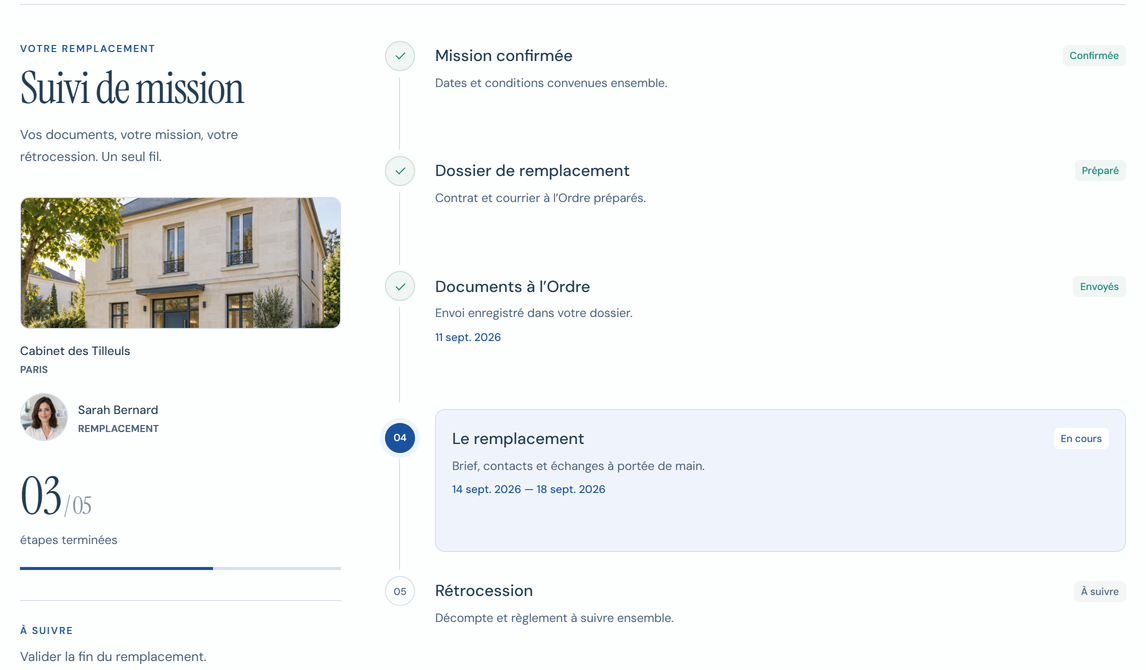
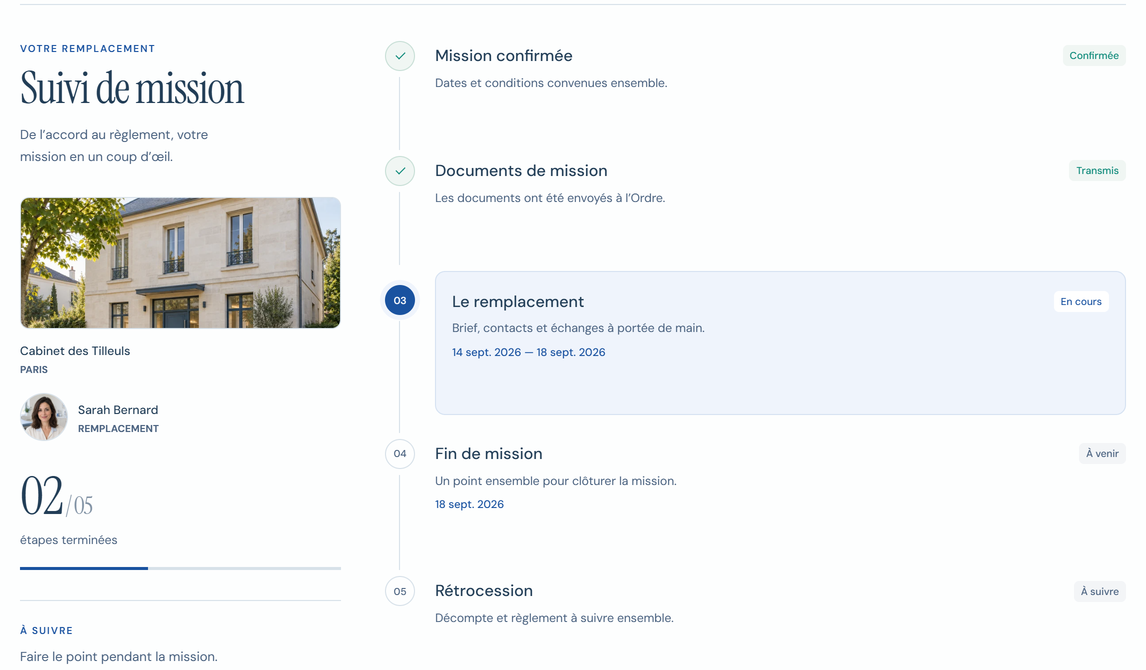
Refocus mission tracking on the replacement journey

diff --git a/medilink-frontend-v2-polished/lib/mission-progress.ts b/medilink-frontend-v2-polished/lib/mission-progress.ts
@@ -49,9 +49,6 @@ export function missionProgress(
   const sent = prepared && [contract!, letter!].every(document =>
     sentDeliveries.some(delivery => delivery.documentIds.includes(document.id)));
   const latestAttempt = [...orderDeliveries].sort((a, b) => b.createdAt.localeCompare(a.createdAt))[0];
-  const latestSent = [...sentDeliveries].filter(delivery =>
-    delivery.documentIds.some(id => id === contract?.id || id === letter?.id))
-    .sort((a, b) => (b.sentAt || b.createdAt).localeCompare(a.sentAt || a.createdAt))[0];
   const unknownStatus = dossierLoading ? 'Chargement…' : 'À consulter';
   const sending = !sent && latestAttempt?.status === 'SENDING';
   const failed = !sent && latestAttempt?.status === 'FAILED';
@@ -64,33 +61,37 @@ export function missionProgress(
       nextAction: 'Confirmer les conditions ensemble.', done: confirmed, active: false,
     },
     {
-      key: 'documents', label: 'Dossier de remplacement',
-      helper: prepared ? 'Contrat et courrier à l’Ordre préparés.' : 'Réunissez le contrat et le courrier à l’Ordre.',
-      status: !dossier ? unknownStatus : prepared ? 'Préparé' : 'À préparer',
-      nextAction: dossier ? 'Préparer le dossier du remplacement.' : 'Consulter le dossier du remplacement.',
-      done: prepared, active: false,
-    },
-    {
-      key: 'order', label: 'Documents à l’Ordre',
-      helper: sent ? 'Envoi enregistré dans votre dossier.'
+      key: 'documents', label: 'Documents de mission',
+      helper: !dossier ? 'Retrouvez les pièces dans le dossier partagé.'
+        : sent ? 'Les documents ont été envoyés à l’Ordre.'
         : sending ? 'L’envoi des documents est en cours.'
         : failed ? 'Relancez l’envoi depuis votre dossier.'
         : sentDeliveries.length ? 'Certaines pièces actuelles restent à transmettre.'
-        : 'Transmettez les pièces au Conseil départemental.',
-      status: !dossier ? unknownStatus : sent ? 'Envoyés' : sending ? 'En cours' : failed ? 'À relancer' : sentDeliveries.length ? 'À compléter' : 'À transmettre',
-      dateLabel: sent && latestSent ? formatDate(latestSent.sentAt || latestSent.createdAt) : undefined,
-      nextAction: sent ? 'Consulter l’historique des envois.' : sending ? 'Suivre l’envoi dans le dossier.' : 'Transmettre les documents à l’Ordre.',
+        : prepared ? 'Le dossier est prêt à être transmis à l’Ordre.'
+        : 'Préparez le dossier du remplacement.',
+      status: !dossier ? unknownStatus : sent ? 'Transmis' : sending ? 'En cours' : failed ? 'À relancer' : sentDeliveries.length ? 'À compléter' : prepared ? 'À transmettre' : 'À préparer',
+      nextAction: !dossier ? 'Consulter le dossier du remplacement.'
+        : sending ? 'Suivre l’envoi dans le dossier.'
+        : prepared ? 'Transmettre les documents à l’Ordre.' : 'Préparer le dossier du remplacement.',
       done: sent, active: false,
     },
     {
       key: 'replacement', label: 'Le remplacement',
-      helper: completed ? 'La fin de mission a été validée.'
-        : ended ? 'La période est terminée, la fin reste à valider.'
+      helper: completed ? 'Le remplacement est terminé.'
+        : ended ? 'La période prévue est terminée.'
         : started ? 'Brief, contacts et échanges à portée de main.'
         : 'Retrouvez les informations avant le premier jour.',
-      status: completed ? 'Validé' : ended ? 'À valider' : started ? 'En cours' : 'À venir',
+      status: completed ? 'Terminé' : ended ? 'Période écoulée' : started ? 'En cours' : 'À venir',
       dateLabel: startDate && endDate ? `${formatDate(startDate)} — ${formatDate(endDate)}` : 'Dates à confirmer',
-      nextAction: started || ended ? 'Valider la fin du remplacement.' : 'Préparer le premier jour.',
+      nextAction: started ? 'Faire le point pendant la mission.' : 'Préparer le premier jour.',
+      done: ended || completed, active: false,
+    },
+    {
+      key: 'completed', label: 'Fin de mission',
+      helper: completed ? 'La fin de mission a été validée.' : 'Un point ensemble pour clôturer la mission.',
+      status: completed ? 'Validée' : ended ? 'À valider' : 'À venir',
+      dateLabel: endDate ? formatDate(endDate) : 'Date à confirmer',
+      nextAction: 'Valider la fin du remplacement.',
       done: completed, active: false,
     },
     {

diff --git a/medilink-frontend-v2-polished/content/landing-content.ts b/medilink-frontend-v2-polished/content/landing-content.ts
@@ -125,7 +125,7 @@ export const landingContent = {
           </header>
           <ol class="ml-continuity-benefits">
             <li><span aria-hidden="true">01</span><div><h3>Les moments clés</h3><p>De la mission confirmée à la rétrocession, gardez le fil.</p></div></li>
-            <li><span aria-hidden="true">02</span><div><h3>Le dossier et ses envois</h3><p>Retrouvez les documents préparés et leur transmission à l’Ordre.</p></div></li>
+            <li><span aria-hidden="true">02</span><div><h3>La prochaine étape</h3><p>Repérez ce qui est en cours et ce qui reste à finaliser.</p></div></li>
             <li><span aria-hidden="true">03</span><div><h3>Les informations utiles</h3><p>Consultez le brief, les contacts et les conditions convenues.</p></div></li>
           </ol>
           <p class="ml-continuity-connection"><svg xmlns="http://www.w3.org/2000/svg" width="20" height="20" viewBox="0 0 24 24" fill="none" stroke="currentColor" stroke-width="1.5" stroke-linecap="round" stroke-linejoin="round" aria-hidden="true"><path d="M20 7h-9m6-3 3 3-3 3M4 17h9m-6-3-3 3 3 3"/></svg><span>Pendant le remplacement, savoir où en est la mission.</span></p>

diff --git a/medilink-frontend-v2-polished/app/(platform)/app/current-missions/page.tsx b/medilink-frontend-v2-polished/app/(platform)/app/current-missions/page.tsx
@@ -390,7 +390,7 @@ function MissionControlPanel({ row, activeSection }: { row: MissionRow; activeSe
                 <div className="mission-folio-intro">
                   <span>Votre remplacement</span>
                   <h2>Suivi de mission</h2>
-                  <p>Vos documents, votre mission, votre rétrocession. Un seul fil.</p>
+                  <p>De l’accord au règlement, votre mission en un coup d’œil.</p>
                 </div>
                 {establishmentPhoto || candidateName ? (
                   <div className="mission-folio-people">

diff --git a/medilink-frontend-v2-polished/content/landing-continuity-preview.ts b/medilink-frontend-v2-polished/content/landing-continuity-preview.ts
@@ -2,5 +2,5 @@ import { interfacePreview } from './landing-interface-preview';
 
 export const continuityPreview = interfacePreview(
   'mission', 'ml-continuity-preview', 'L’avancement de votre mission',
-  'Suivi MédiLink : mission confirmée, dossier préparé, documents envoyés à l’Ordre, remplacement en cours et rétrocession à suivre.',
+  'Suivi MédiLink : mission confirmée, documents transmis, remplacement en cours, fin de mission et rétrocession à suivre.',
 );

diff --git a/medilink-frontend-v2-polished/AGENTS.md b/medilink-frontend-v2-polished/AGENTS.md
@@ -12,7 +12,7 @@ This block is written and re-added by `next dev` — verify at `node_modules/nex
 
 The user requests that every completed modification be committed and pushed after appropriate verification, without waiting for a separate push request. Include only files belonging to the requested change.
 
-The user subsequently prioritized the mission preview's marketing clarity, explicitly allowing fewer steps and requesting document transmission to the Ordre. The native candidate overview now presents five milestones: confirmation, dossier preparation, documents to the Ordre, replacement and payment/retrocession. `lib/mission-progress.ts` derives document states from the authorized replacement dossier; only successful ORDER deliveries covering the current contract and letter count as sent. Sending, failed, incomplete or stale documents must not become completed milestones; transmission never implies Ordre approval. Keep the photos, full mission date range, larger mobile helper text and the soft blue active step. The mission capture uses the later fictional `missionTrackingDossier` scenario, while the documents preview still illustrates preparation. Preserve common physical device proportions and the full unclipped mobile mission capture. This supersedes the earlier requirement to retain the six original rows. Verify with `node scripts/mission-progress.test.mjs` and regenerate only the native mission assets when adjusting this view.
+The user prioritized the mission preview's marketing clarity and requested document transmission to the Ordre, then rejected the excessive emphasis on documents. Keep the five milestones centered on the mission: confirmation, one combined documents step, replacement in progress, end-of-mission validation and payment/retrocession. Mention the Ordre transmission within the single documents row; do not add a separate preparation/transmission row or emphasize documents again in the overview intro and surrounding benefits. `lib/mission-progress.ts` derives document states from the authorized replacement dossier; only successful ORDER deliveries covering the current contract and letter count as sent. Sending, failed, incomplete or stale documents must not become completed milestones; transmission never implies Ordre approval. An elapsed replacement period does not imply validated completion or payment. Keep the photos, full mission date range, larger mobile helper text and the soft blue active step. The mission capture uses the later fictional `missionTrackingDossier` scenario, while the documents preview still illustrates preparation. Preserve common physical device proportions and the full unclipped mobile mission capture. This supersedes the earlier requirement to retain the six original rows. Verify with `node scripts/mission-progress.test.mjs` and regenerate only the native mission assets when adjusting this view.
 
 The user subsequently flagged awkward mobile spacing around the mission mockup. Mobile `.ml-interface-stage` has horizontal padding only: existing grid gaps and section padding provide the vertical spacing. Do not reintroduce the old 32px top / 36px bottom stage inset, which compounded the gap before the documents section. Preserve phone dimensions, capture contents, and desktop spacing.
 
